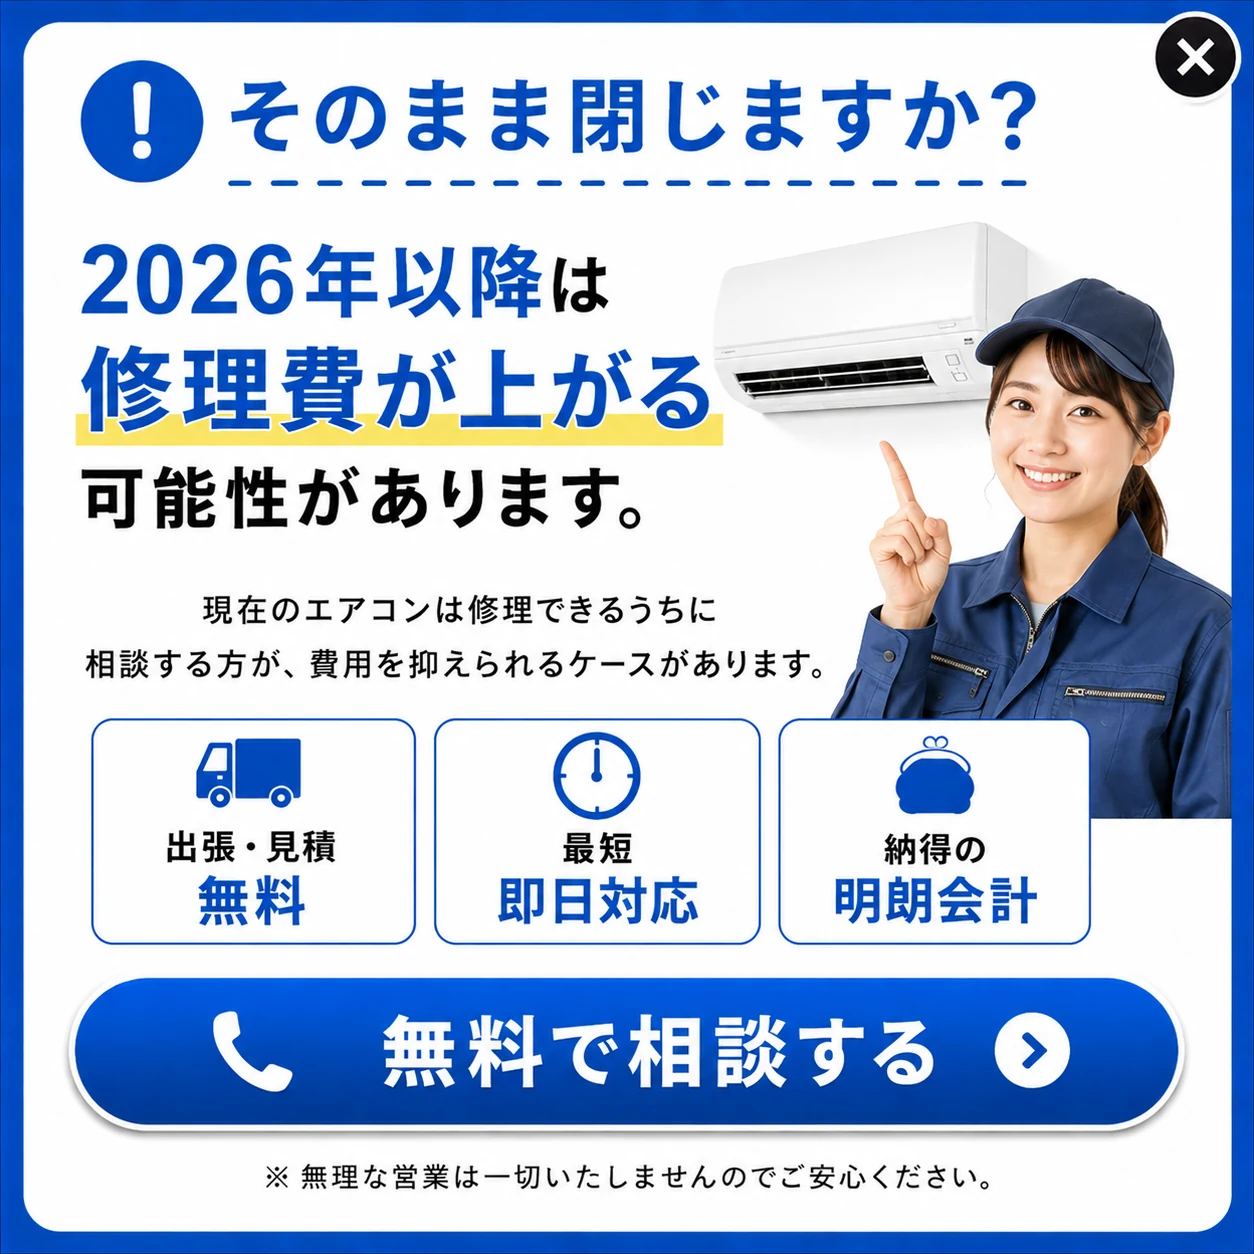
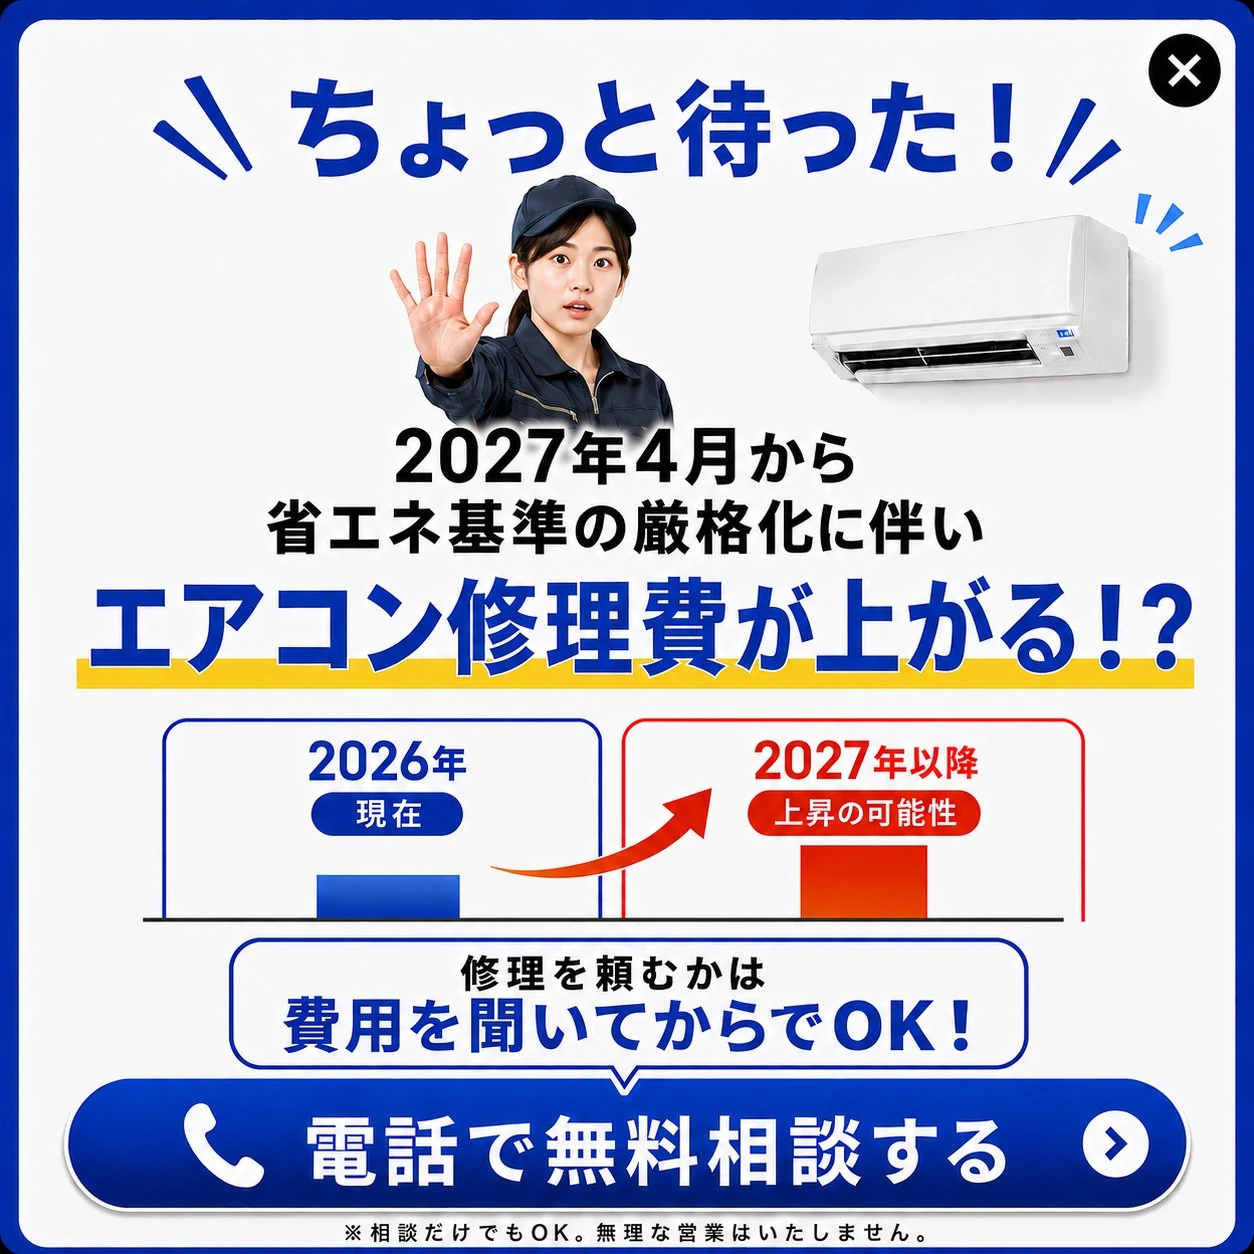
Update exit popup image

diff --git a/aircon-lp02/index.html b/aircon-lp02/index.html
@@ -23,7 +23,7 @@
 <link rel="icon" href="./assets/favicon.webp" type="image/png">
 <link rel="apple-touch-icon" href="./assets/favicon.webp">
  <link rel="preload" as="image" href="./assets/main-visual-aircon-repair.webp?v=1" fetchpriority="high">
-<link rel="preload" as="image" href="./assets/aircon-2027-last-chance.webp?v=20260806-1607">  <link rel="stylesheet" href="./css/styles.css?v=18">
+<link rel="preload" as="image" href="./assets/aircon-2027-last-chance.webp?v=20260806-1607">  <link rel="stylesheet" href="./css/styles.css?v=20">
 <link rel="stylesheet" href="./css/fixed-cta.css?v=10">
 </head>
 <body>
@@ -895,7 +895,7 @@
     <button class="exit-popup-backdrop" type="button" data-exit-popup-close aria-label="離脱防止POPを閉じる"></button>
     <div class="exit-popup-card">
       <button class="exit-popup-close" type="button" data-exit-popup-close aria-label="離脱防止POPを閉じる"></button>
-      <img class="exit-popup-image" src="assets/exit-popup-repair-cost-2026.webp" alt="そのまま閉じますか。2026年以降は修理費が上がる可能性があります。出張・見積無料、最短即日対応、納得の明朗会計。">
+      <img class="exit-popup-image" src="assets/exit-popup-repair-cost-2026.webp?v=20260815" alt="ちょっと待った。2027年4月から省エネ基準の厳格化に伴いエアコン修理費が上がる可能性があります。修理を頼むかは費用を聞いてからでOK。電話で無料相談する。">
       <a class="exit-popup-tel-hotspot tel-cta" href="tel:05054442277" aria-label="無料で電話相談する"></a>
     </div>
   </div>

diff --git a/aircon-lp02/css/styles.css b/aircon-lp02/css/styles.css
@@ -1367,6 +1367,11 @@ body.is-service-modal-open {
   cursor: pointer;
 }
 
+.exit-popup-close:focus,
+.exit-popup-close:focus-visible {
+  outline: 0;
+}
+
 .exit-popup-image {
   display: block;
   width: 100%;
@@ -1376,11 +1381,11 @@ body.is-service-modal-open {
 
 .exit-popup-tel-hotspot {
   position: absolute;
-  left: 5.8%;
-  right: 5.8%;
-  bottom: 10%;
+  left: 5.2%;
+  right: 5.2%;
+  bottom: 3.2%;
   z-index: 1;
-  height: 13.3%;
+  height: 10.5%;
   border-radius: 999px;
   outline-offset: 3px;
 }
